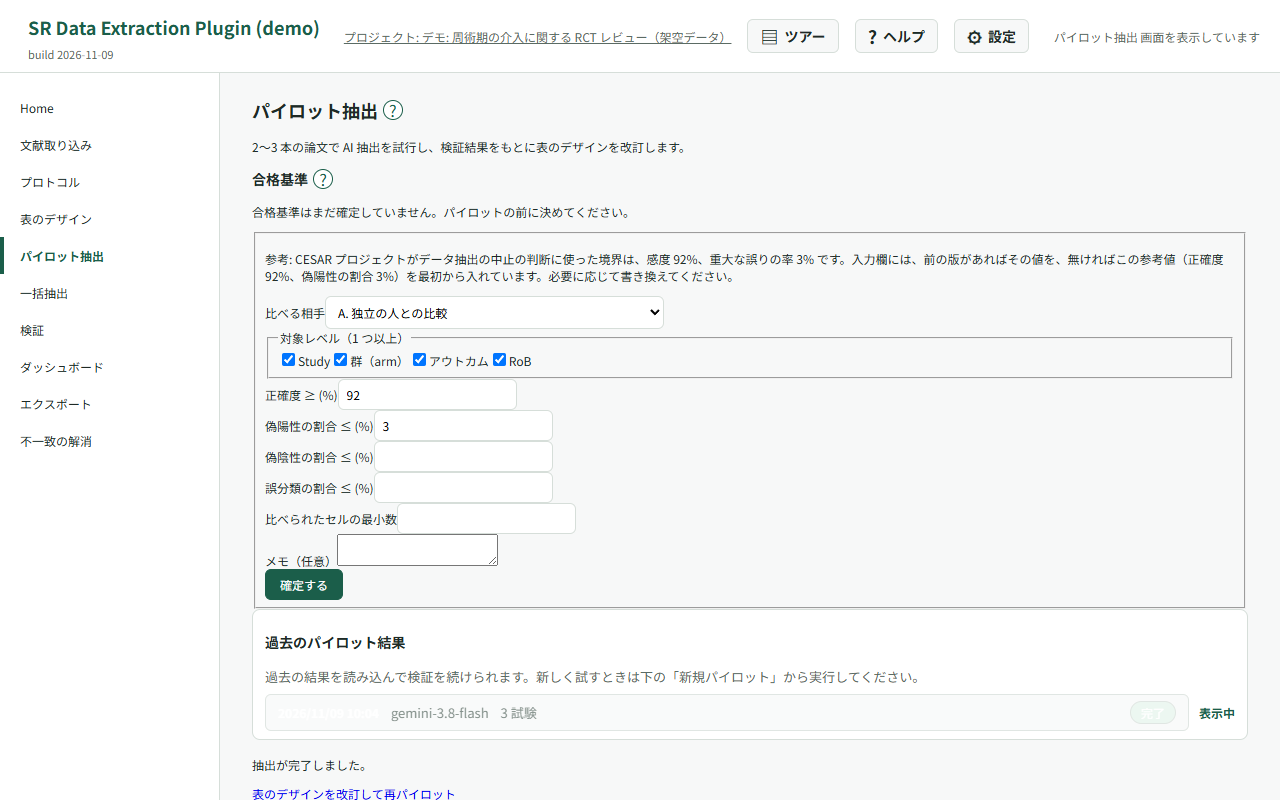
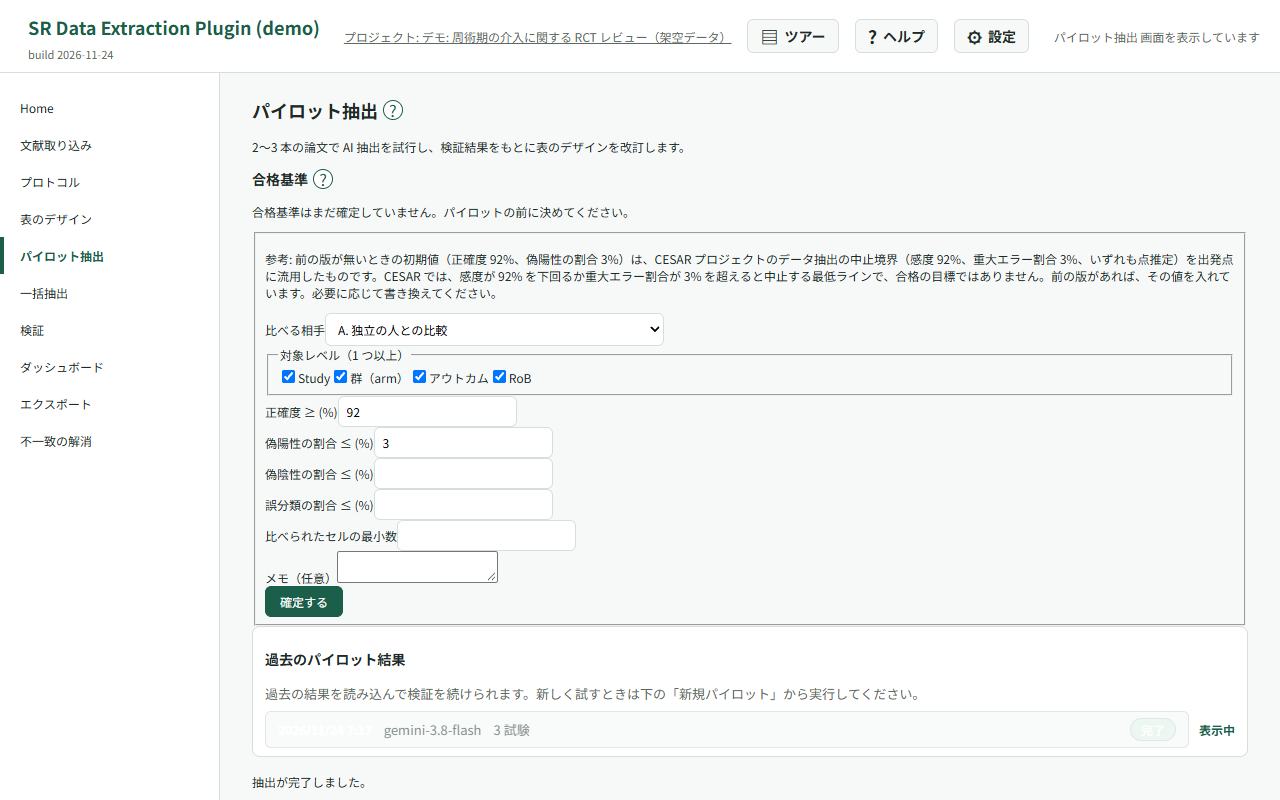
docs: 合格基準の初期値の説明を CESAR の中止境界の流用にそろえる（issue #557）
正確度 92%・偽陽性の割合 3% の初期値は変えず、CESAR のデータ抽出の中止境界
（感度 92%、重大エラー割合 3%、いずれも点推定）を出発点に流用したと説明する。
画面の参考文・ヘルプ（日英）と図・requirements v0.53・ui-states・CHANGELOG を更新。

diff --git a/hosted/help.html b/hosted/help.html
@@ -1399,13 +1399,13 @@
           <p><span class="ja" lang="ja">パイロットの前に owner が合格基準を決め、「確定する」から確認して保存します。
             正確度の下限、偽陽性・偽陰性・誤分類の割合の上限（0〜100%、4 つのうち 1 つ以上）、任意の最小セル数、
             比べる相手（独立の人、裁定後の値、独立抽出者の最終値、AI を見ながら判定した人）、対象レベルを指定します。
-            入力欄には前の版の値を、版がなければ CESAR の参考値として正確度 92%、偽陽性の割合 3% を入れます。必要に応じて書き換えてください。編集済みの下書きは上書きしません。
+            入力欄には前の版の値を入れます。版がなければ、CESAR のデータ抽出の中止境界（感度 92%、重大エラー割合 3%、いずれも点推定）を出発点に流用し、正確度 92%、偽陽性の割合 3% を入れます。CESAR では中止を決める最低ラインで、合格の目標ではありません。必要に応じて書き換えてください。編集済みの下書きは上書きしません。
             AI を見ながら判定した人との比較は独立比較ではありません。
             実行中・中断・失敗を含め、一度でもパイロットを始めた後の確定は、開始後に確定した版として記録します。</span>
             <span class="en" lang="en">Before the pilot, the owner sets and confirms acceptance criteria: minimum accuracy,
             maximum false-positive, false-negative and misclassification proportions (0–100%; at least one proportion), optional minimum compared cells,
             comparator (independent reviewers, consensus, independent final values, or AI-assisted final values), and entity levels.
-            Inputs start with the previous version’s values, or the CESAR reference values of accuracy 92% and false-positive proportion 3% if no version exists. Adjust them as needed. Edited drafts are preserved.
+            Inputs start with the previous version’s values. If no version exists, they start with accuracy 92% and false-positive proportion 3%, adapted from the CESAR project’s stopping (futility) boundaries for data extraction (sensitivity 92% and major error proportion 3%, both point estimates). In CESAR these are minimum bars for stopping, not targets for passing. Adjust them as needed. Edited drafts are preserved.
             AI-assisted review is not an independent comparison.
             Confirmation after any pilot has started, including running, interrupted or failed runs, is recorded as occurring after the pilot began.</span></p>
           <p><span class="ja" lang="ja">「結果を計算」で完了済みパイロットの研究を比較します。基準をすべて満たせば「満たす」、

diff --git a/src/lib/i18n/ja.app.ts b/src/lib/i18n/ja.app.ts
@@ -54,7 +54,7 @@ export const jaApp = {
 
   'criteria.title': '合格基準',
   'criteria.empty': '合格基準はまだ確定していません。パイロットの前に決めてください。',
-  'criteria.reference': '参考: CESAR プロジェクトがデータ抽出の中止の判断に使った境界は、感度 92%、重大な誤りの率 3% です。入力欄には、前の版があればその値を、無ければこの参考値（正確度 92%、偽陽性の割合 3%）を最初から入れています。必要に応じて書き換えてください。',
+  'criteria.reference': '参考: 前の版が無いときの初期値（正確度 92%、偽陽性の割合 3%）は、CESAR プロジェクトのデータ抽出の中止境界（感度 92%、重大エラー割合 3%、いずれも点推定）を出発点に流用したものです。CESAR では、感度が 92% を下回るか重大エラー割合が 3% を超えると中止する最低ラインで、合格の目標ではありません。前の版があれば、その値を入れています。必要に応じて書き換えてください。',
   'criteria.minAccuracy': '正確度 ≥ (%)',
   'criteria.maxFabricationRate': '偽陽性の割合 ≤ (%)',
   'criteria.maxOmissionRate': '偽陰性の割合 ≤ (%)',

diff --git a/src/lib/i18n/en.app.ts b/src/lib/i18n/en.app.ts
@@ -56,7 +56,7 @@ export const enApp: Record<keyof typeof jaApp, string> = {
 
   'criteria.title': 'Acceptance criteria',
   'criteria.empty': 'No acceptance criteria have been confirmed. Set them before the pilot.',
-  'criteria.reference': 'Reference: The CESAR project used sensitivity of 92% and a major-error rate of 3% as stopping boundaries for data extraction. The form starts with the previous version’s values, or these reference values (accuracy 92%, false-positive proportion 3%) if no version exists. Adjust them as needed.',
+  'criteria.reference': 'Reference: Without a previous version, the form starts with accuracy 92% and false-positive proportion 3%. These starting values are adapted from the CESAR project’s stopping (futility) boundaries for data extraction: sensitivity 92% and major error proportion 3%, both point estimates. In CESAR, sensitivity below 92% or a major error proportion above 3% means stopping. They are minimum bars, not targets for passing. With a previous version, the form starts with its values. Adjust them as needed.',
   'criteria.minAccuracy': 'Accuracy ≥ (%)',
   'criteria.maxFabricationRate': 'False-positive proportion ≤ (%)',
   'criteria.maxOmissionRate': 'False-negative proportion ≤ (%)',

diff --git a/src/features/verification/acceptanceCriteria.ts b/src/features/verification/acceptanceCriteria.ts
@@ -48,7 +48,7 @@ export function emptyCriteriaDraft(): CriteriaDraft {
     max_fabrication_rate: '', max_omission_rate: '', max_wrong_value_rate: '', min_compared_cells: '', note: '' };
 }
 
-/** 現行版を引き継ぎ、版が無ければ CESAR の参考値を入力する。 */
+/** 現行版を引き継ぎ、版が無ければ CESAR のデータ抽出の中止境界（点推定）を流用した初期値を入れる。 */
 export function initialCriteriaDraft(current: AcceptanceCriteria | null): CriteriaDraft {
   if (current === null) {
     return { ...emptyCriteriaDraft(), min_accuracy: '92', max_fabrication_rate: '3' };

diff --git a/CHANGELOG.md b/CHANGELOG.md
@@ -24,6 +24,8 @@ This is the public changelog of this extension. Any change that can alter AI out
   New study-level fields can no longer use tab1.csv key column names. For existing fields with these names, R set tab1.csv / tab1_status.csv columns become `<name>_field` (with numbered suffixes for further collisions), so update column references in R code. Existing fields can be saved without renaming (StudyData stores columns by field name, so renaming would not carry verified values to the new column). The ma.csv key column names from v0.36.1 (issue #549) now work the same way, so existing outcome result fields no longer block confirming the table design or adding outcomes from the pilot. Importing a table design from JSON / CSV no longer rejects the whole file for these names; the editor checks them instead (2026-11-22, issue #553).
 - 研究単位（study）の項目に `study_label` という名前の既存項目があると、`study_wide.csv` の見出しに `study_label` が 2 回出る問題を修正しました。その項目の列名を `study_label_field`（さらに重なれば連番）に変えます。複数選択の 1/0 列、AI 下書きの `__source` 列、`consult_fields` の値は元の項目名のままです（2026-11-23、issue #561）。
   Fixed `study_label` appearing twice in the `study_wide.csv` header when the table design has an existing study-level field named `study_label`. That field's column is now named `study_label_field` (with numbered suffixes for further collisions). Multi-select 1/0 columns, the `__source` columns of AI drafts and the values in `consult_fields` keep the original field name (2026-11-23, issue #561).
+- 合格基準の初期値（正確度 92%、偽陽性の割合 3%）の説明を直しました。これは CESAR のデータ抽出の中止境界（感度 92%、重大エラー割合 3%、いずれも点推定）を、正確度と偽陽性の割合の出発点に流用した値で、合格の目標ではありません。値は変わりません（2026-11-24、issue #557）。
+  Corrected the explanation of the acceptance criteria starting values (accuracy 92% and false-positive proportion 3%). They are adapted from the CESAR project’s stopping (futility) boundaries for data extraction (sensitivity 92% and major error proportion 3%, both point estimates) and are not targets for passing. The values are unchanged (2026-11-24, issue #557).
 
 ## v0.36.1（2026-11-17）
 

diff --git a/docs/project-facts.md b/docs/project-facts.md
@@ -9,7 +9,7 @@
 | ストアの公開版 | v0.36.1（掲載ページの更新日 2026-11-17。2026-11-18 に確認） | `docs/store/store-status.json`（手で更新する） |
 | 工場出荷の既定モデル | `gemini-3.8-flash` | `src/lib/storage/settingsStore.ts` の `FACTORY_DEFAULT_MODEL` |
 | extract-data プロンプトの版数 | 17 | `src/features/extraction/skills/extractData.ts` の `EXTRACT_DATA_PROMPT_VERSION` |
-| 要件定義書の版 | v0.52 | `docs/requirements.md` の見出し |
+| 要件定義書の版 | v0.53 | `docs/requirements.md` の見出し |
 
 リポジトリの版がストアの公開版より新しいとき、その差は「zip 作成済み・ストア未反映」を意味する。
 ストアへ提出・反映されたら `docs/store/store-status.json` を手で更新し、`npm run facts` を実行する。
